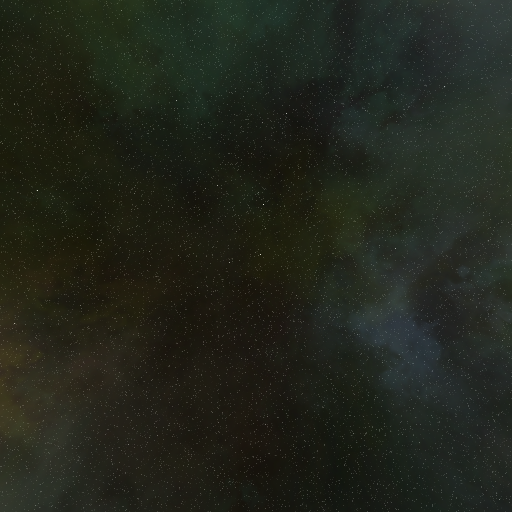
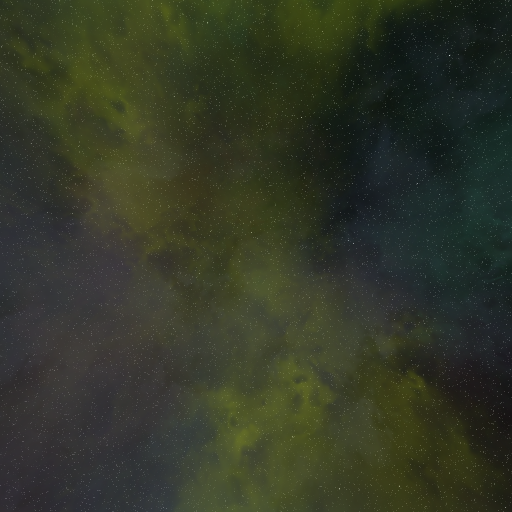
OMI_environment_sky: Modify cubemap conventions to match KTX terminology

diff --git a/extensions/2.0/OMI_environment_sky/README.md b/extensions/2.0/OMI_environment_sky/README.md
@@ -237,9 +237,24 @@ Panorama skies use a texture or set of textures to represent the sky. The `"pano
 
 The `"cubemap"` property is an array of 6 integer indices that reference textures in the glTF document-level textures array. If not specified, this sky does not have a cubemap texture.
 
-If present, the value **MUST** be a 6-element array of integers which refer to 6 textures by index. The indices of the textures in the array are in the order +X, -X, +Y, -Y, +Z, -Z.
+If present, the value **MUST** be a 6-element array of integers which refer to 6 textures by index. The face order and the orientation of each face image **MUST** follow the cubemap conventions of the [KTX 2.0 specification](https://registry.khronos.org/KTX/specs/2.0/ktxspec.v2.html) (section 3.6 "faceCount" and Appendix A "Cubemap Orientation"): the faces are in the order +X, -X, +Y, -Y, +Z, -Z, and each face image has a top-left origin, in KTX's left-handed cubemap coordinate system. KTX's cubemap coordinate system is converted to glTF's right-handed coordinate system by negating the X axis, which is one of the conversions described in KTX 2.0 Appendix A. The Y and Z axes are unchanged. These directions are in the sky's local space, before the sky's `"rotation"` is applied.
 
-Cubemap skybox textures are not recommended because not all game engines support them. Unity does, while Unreal and Godot do not. If an engine does not support cubemap skyboxes, an importer may either convert the cubemap to an equirectangular texture, or use a mesh to represent the skybox. Additionally, if the glTF file includes both a cubemap and equirectangular texture, the equirectangular texture may be loaded as a fallback.
+Note that this makes the X labels unintuitive for glTF's right-handed coordinate system: the face labeled "+X" (index 0) is seen when looking toward glTF's -X direction, and the face labeled "-X" (index 1) is seen when looking toward glTF's +X direction. This is because the labels refer to KTX's left-handed X axis, which is negated compared to glTF. The Y and Z faces are seen in the directions their labels suggest. In exchange, the face images are not mirrored when viewed from inside the skybox, consistent with equirectangular skies, so text on the sky is readable. KTX 2.0 cubemap files and GPU cubemap textures can also be used directly, by sampling with the X component of the sampling direction negated.
+
+The following table restates the resulting orientation of each face image in glTF's coordinate system, as seen by a viewer inside the skybox:
+
+| Index | KTX label | Seen when looking toward | Image right edge toward | Image top edge toward |
+| ----- | --------- | ------------------------ | ----------------------- | --------------------- |
+| 0     | +X        | -X                       | -Z                      | +Y                    |
+| 1     | -X        | +X                       | +Z                      | +Y                    |
+| 2     | +Y        | +Y                       | -X                      | -Z                    |
+| 3     | -Y        | -Y                       | -X                      | +Z                    |
+| 4     | +Z        | +Z                       | -X                      | +Y                    |
+| 5     | -Z        | -Z                       | +X                      | +Y                    |
+
+Informative note: Tools that render cubemap faces with a right-handed camera, such as by looking along each glTF axis with +Y up, produce a face for glTF's +X direction and a face for glTF's -X direction. These must be stored at index 1 and index 0, respectively. Some engines name their cubemap faces differently; for example, Unity's 6 sided skybox labels its +X slot as "Left".
+
+Cubemap skybox textures are not recommended because not all game engines support them natively. Unity supports them with its built-in skybox shaders, while Godot and Unreal require a custom sky shader or sky material that samples the cubemap faces. If an engine does not support cubemap skyboxes, an importer may convert the cubemap to an equirectangular texture, use a custom sky shader, or use a mesh to represent the skybox. Additionally, if the glTF file includes both a cubemap and equirectangular texture, the equirectangular texture may be loaded as a fallback.
 
 #### Equirectangular
 
